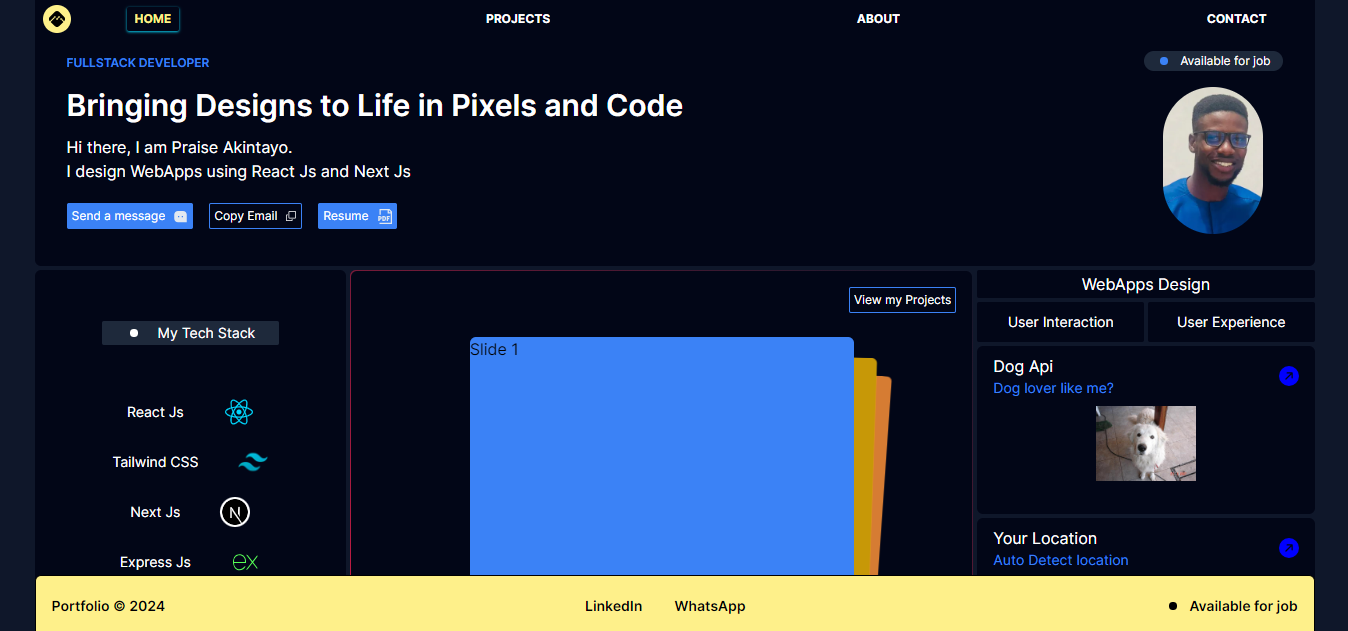
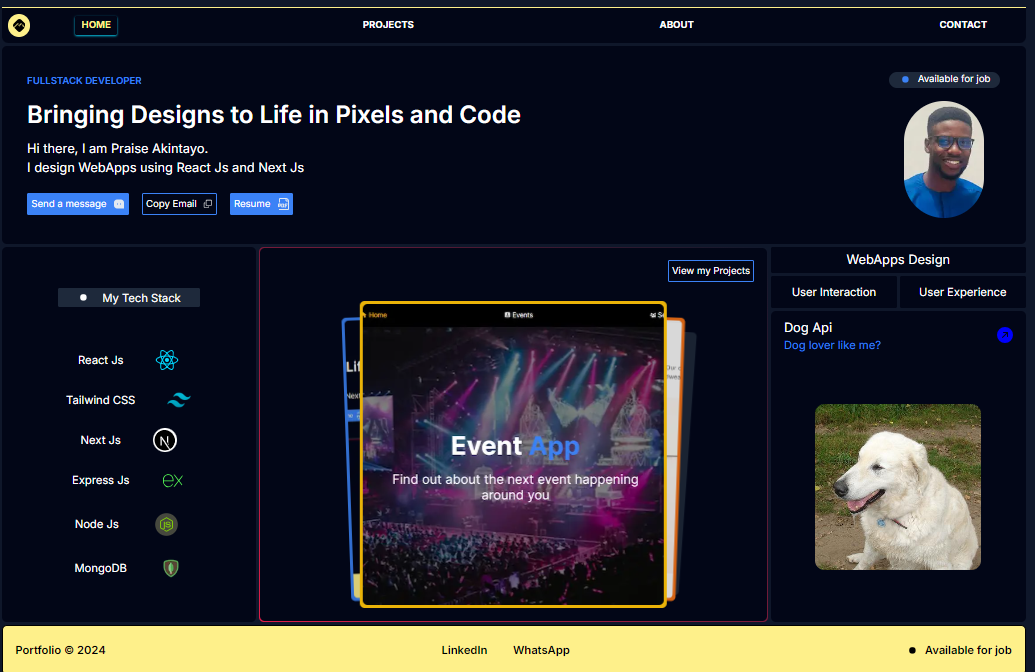
added new projects and remove location component

diff --git a/src/components/Slider.js b/src/components/Slider.js
@@ -21,10 +21,11 @@ export default function Slider() {
         modules={[EffectCards]}
         className="w-72 h-72 tablet:w-80 tablet:h-80 laptop:w-96 laptop:h-96 mb-10 laptop:mb-0 overflow-hidden"
       >
-        <SwiperSlide className="rounded-md bg-blue-500 p-1"><Image src={"/assets/images/portfolio.png"} width={1000} height={1000} alt="project image" className="w-full h-full rounded-md object-fill" /></SwiperSlide>
-        <SwiperSlide className="rounded-md bg-yellow-500 p-1"><Image src={"/assets/images/eventbg.png"} width={1000} height={1000} alt="project image" className="w-full h-full rounded-md object-fill" /></SwiperSlide>
-        <SwiperSlide className="rounded-md bg-orange-500 p-1"><Image src={"/assets/images/hastaimg.png"} width={1000} height={1000} alt="project image" className="w-full h-full rounded-md object-fill" /></SwiperSlide>
-        <SwiperSlide className="rounded-md bg-slate-800 p-2"><p className="text-center text-lg text-white font-bold m-auto flex items-center justify-center">Coming Soon...</p></SwiperSlide>
+        <SwiperSlide className="rounded-md bg-blue-500 p-1"><Image src={"/assets/images/portfolio.png"} width={1000} height={1000} alt="project image" className="w-full h-full rounded-md object-cover" /></SwiperSlide>
+        <SwiperSlide className="rounded-md bg-yellow-500 p-1"><Image src={"/assets/images/eventbg.png"} width={1000} height={1000} alt="project image" className="w-full h-full rounded-md object-cover" /></SwiperSlide>
+        <SwiperSlide className="rounded-md bg-orange-500 p-1"><Image src={"/assets/images/hastaimg.png"} width={1000} height={1000} alt="project image" className="w-full h-full rounded-md object-cover" /></SwiperSlide>
+        <SwiperSlide className="rounded-md bg-pink-500 p-1"><Image src={"/assets/images/attend.png"} width={1000} height={1000} alt="project image" className="w-full h-full rounded-md object-cover" /></SwiperSlide>
+        <SwiperSlide className="rounded-md bg-red-500 p-1"><Image src={"/assets/images/dashboard.png"} width={1000} height={1000} alt="project image" className="w-full h-full rounded-md object-cover" /></SwiperSlide>
       </Swiper>
     </>
   );

diff --git a/src/app/projects/page.js b/src/app/projects/page.js
@@ -7,6 +7,8 @@ const Projectspage = () => {
             <ProjectCard src={"/assets/images/portfolio.png"} link={'https://portofolio-app-six.vercel.app/'} github={'https://github.com/PraktyDev/portofolioApp'} name='Portfolio App' description='Portfolio WebApp to showcase my skills and projects' />
             <ProjectCard src={"/assets/images/hastaimg.png"} link={'https://hatsta.vercel.app/'} github={'https://github.com/PraktyDev/hatsta'} name='Hasta' description='A marketplace or ecommerce store for sales of hats' />
             <ProjectCard src={"/assets/images/eventbg.png"} link={'https://event-app-cyan.vercel.app/'} github={'https://github.com/PraktyDev/eventApp'} name='Event App' description='An event app to showcase events and to rent event centers with other services' />
+            <ProjectCard src={"/assets/images/attend.png"} link={'https://larva-attendance.vercel.app/'} github={'https://github.com/PraktyDev/larvaAttendance-frontend'} name='Attendance App' description='An attendance app to mark students attendance' />
+            <ProjectCard src={"/assets/images/dashboard.png"} link={'https://ibtechexpo-reg-app.vercel.app/'} github={'https://github.com/PraktyDev/ibTechExpoRegApp'} name='Registration App' description='A dashboard app to register attendees at events. Featuring data table with search, sorting, filtering and pagination' />
         </div>
     </div>
   )

diff --git a/src/components/Dog.js b/src/components/Dog.js
@@ -22,7 +22,7 @@ const Dog = () => {
   }, []);
 
   return (
-    <div className="bg-slate-950 rounded-md text-white flex flex-col gap-2 p-2 h-1/2">
+    <div className="bg-slate-950 rounded-md text-white flex flex-col gap-2 p-2 h-full">
       <div className="flex flex-row justify-center laptop:justify-between items-center px-2">
         <div className="flex flex-col items-center laptop:items-start mb-5 laptop:mb-0">
           <h2>Dog Api</h2>
@@ -44,7 +44,7 @@ const Dog = () => {
             visible={true}
           />
         ) : (
-          <img alt="dog image" className="" src={dog.message} width={100} height={100} />
+          <img alt="dog image" className="w-52 h-52 object-cover rounded-xl" src={dog.message} width={100} height={100} />
         )}
       </div>
     </div>

diff --git a/src/components/ProjectCard.js b/src/components/ProjectCard.js
@@ -19,7 +19,7 @@ const ProjectCard = (props) => {
         <p className="text-white text-sm">{props.description}</p>
       </div>
 
-      <div className="flex justify-between text-md">
+      <div className="flex justify-between text-md items-center">
         <Link href={props.github} target='_blank' ><Button backgroundColor="bg-blue-500" label='Github Repo' reactIcon={<FaGithub size={15} className='text-slate-200' />} /></Link>
         <Link href={props.link} target='_blank' ><Button backgroundColor="bg-blue-500" label='Live Demo' reactIcon={<IoEye size={15} className='text-slate-200' />} /></Link>
       </div>

diff --git a/src/components/Body.js b/src/components/Body.js
@@ -69,7 +69,7 @@ const Body = async () => {
 
             <Dog />
 
-            <Location />
+            {/* <Location /> */}
 
         </div>
     </div>
